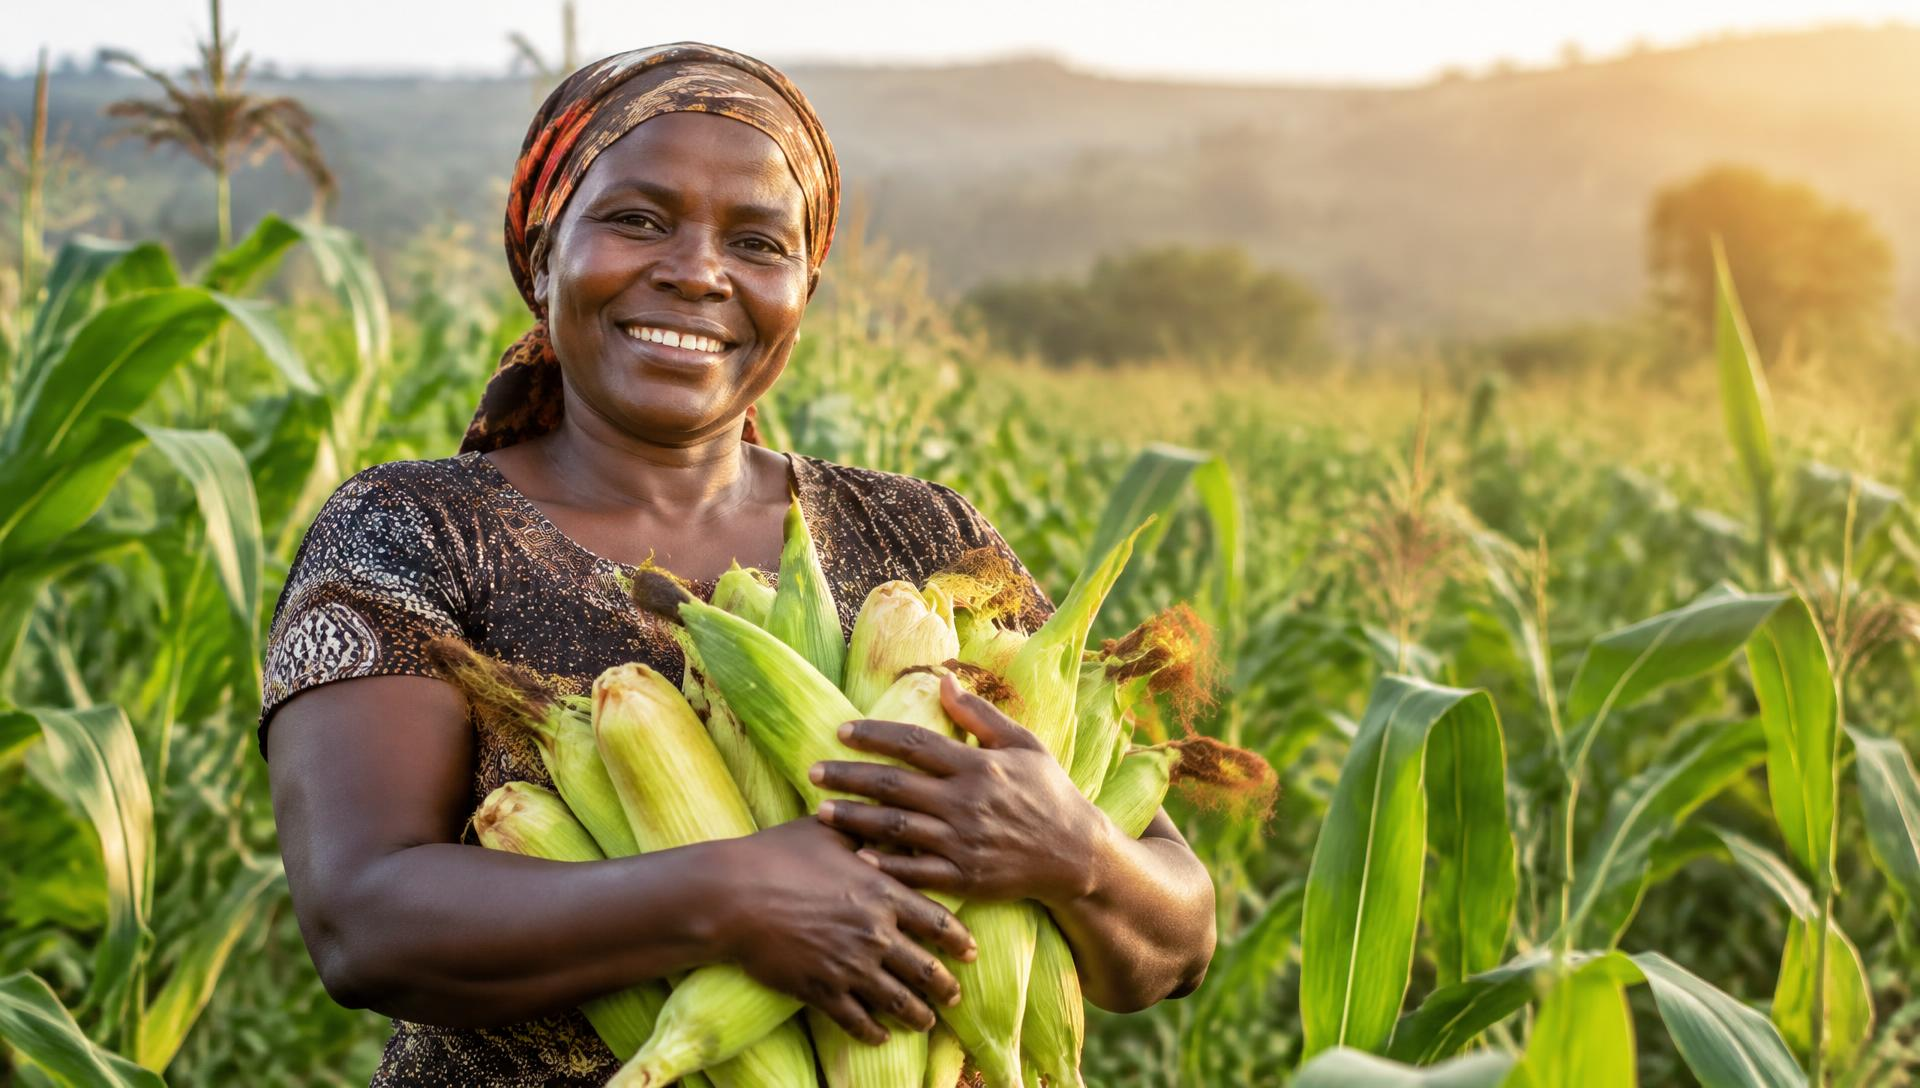
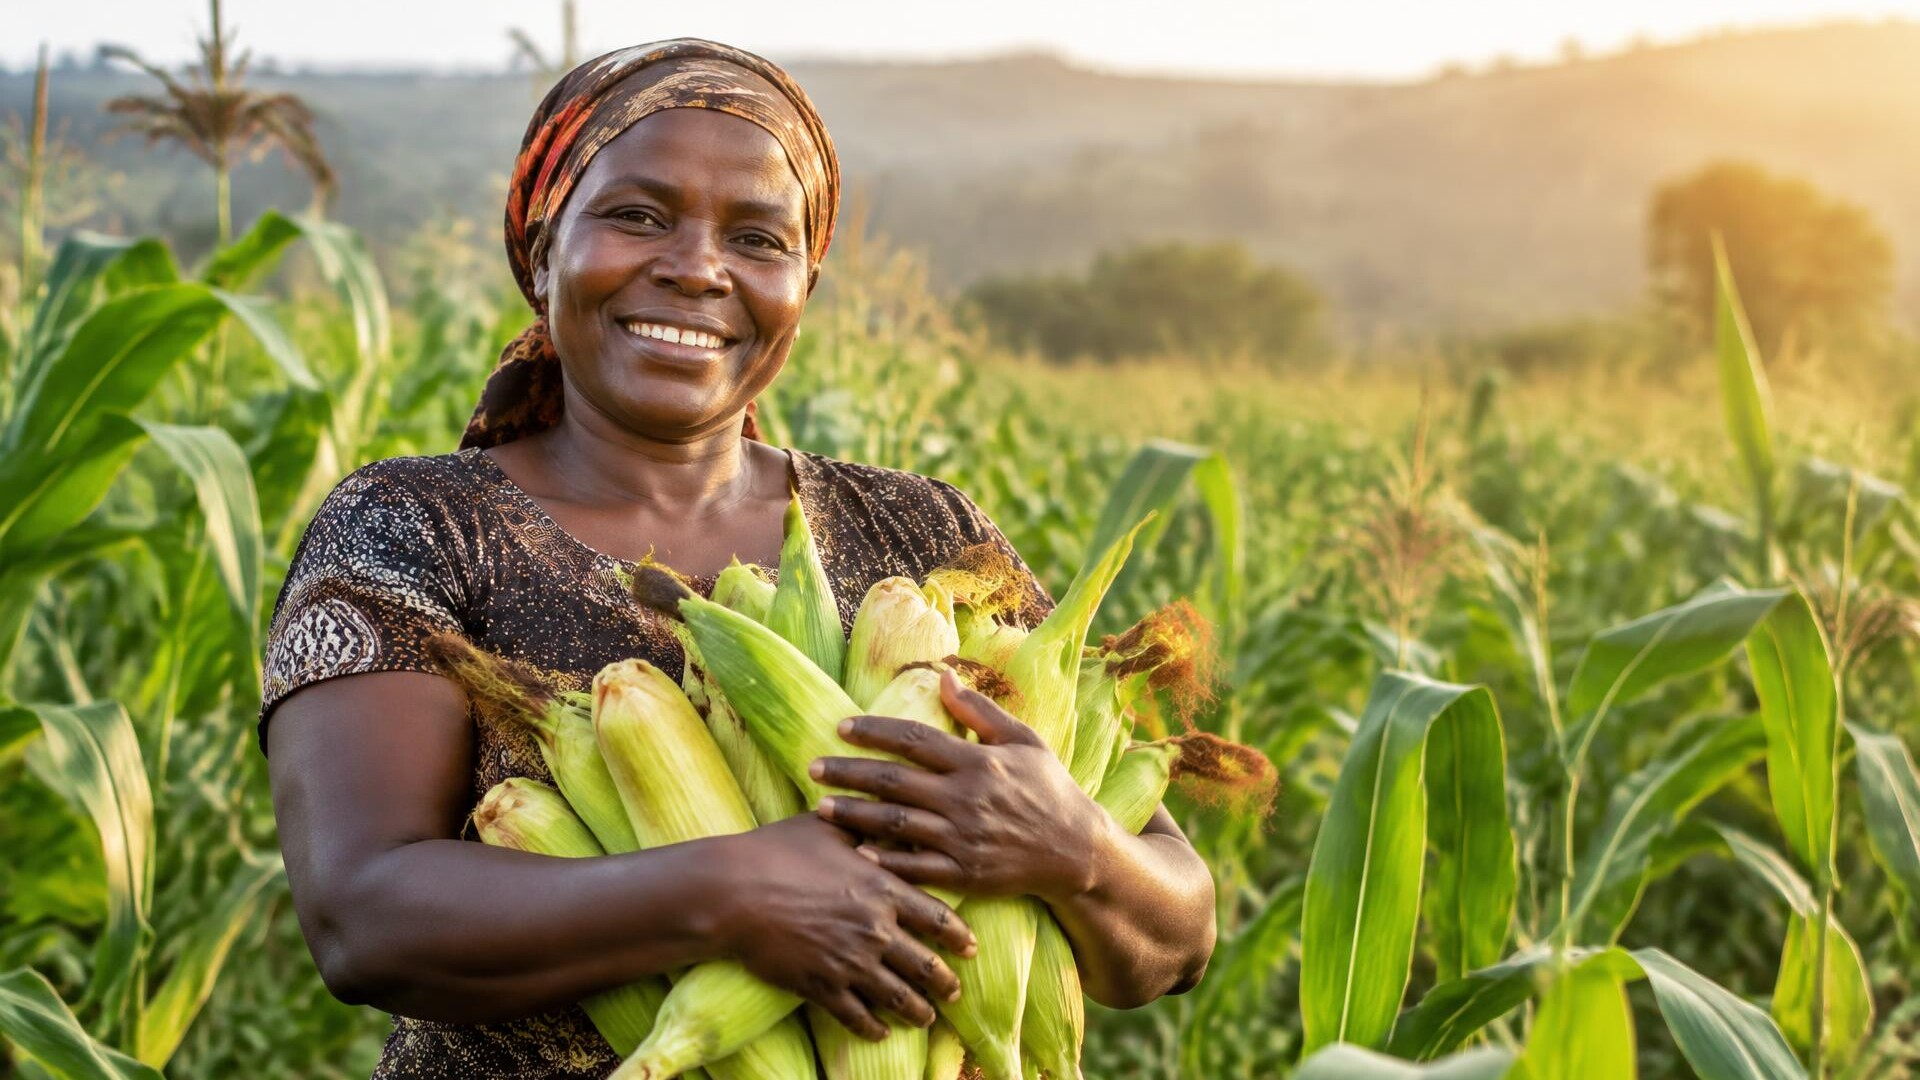
Crop hero image to 16:9 and set hero band to that ratio

diff --git a/src/routes/$lang.index.tsx b/src/routes/$lang.index.tsx
@@ -53,10 +53,10 @@ function Home() {
 
   return (
     <>
-      <section className="relative isolate min-h-[620px] overflow-hidden">
-        <img src={hero} alt="" width={1920} height={1088} className="absolute inset-0 -z-10 h-full w-full object-cover" />
+      <section className="relative isolate aspect-[16/9] min-h-[580px] w-full overflow-hidden min-[800px]:min-h-[440px]">
+        <img src={hero} alt="" width={1920} height={1080} className="absolute inset-0 -z-10 h-full w-full object-cover" />
         <div className="absolute inset-0 -z-10 photo-scrim" />
-        <div className="mx-auto flex min-h-[620px] max-w-7xl flex-col justify-center px-4 py-20 text-forest-foreground lg:px-6">
+        <div className="mx-auto flex h-full max-w-7xl flex-col justify-center px-4 pt-36 pb-12 text-forest-foreground min-[800px]:pt-28 min-[800px]:pb-12 lg:px-6">
           <h1 className="max-w-none text-4xl md:text-[2.75rem] lg:text-[3.25rem] xl:text-6xl">{d.heroTitle}</h1>
           <p className="mt-8 max-w-2xl text-lg font-light opacity-95">{d.heroSub}</p>
           <div className="mt-[2.6667rem] flex flex-wrap gap-3 md:mt-16">
